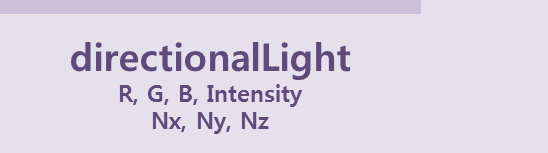
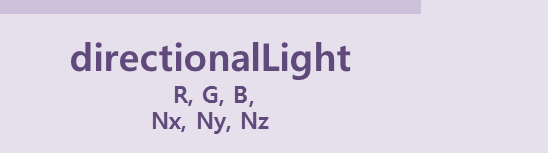
Intensity params changed

Changed region(s): [[0.2172, 0.549, 0.5584, 0.7059]]

diff --git a/static/content/15/practice.html b/static/content/15/practice.html
@@ -1,6 +1,6 @@
 <h4><b>주어진 블록을 이용하여 빛을 조작해 보세요</b></h4>
 <ol>
-    <li>빛의 색을 초록색(0x0000ff)으로 설정하고 intensity를 0.5로 설정</li>
+    <li>빛의 색을 초록색(0x0000ff)으로 설정</li>
     <li>빛의 위치를 (100,300,-500)으로 설정</li>
     <li>빛의 방향을 (-1,-1,1)로 설정</li>
 </ol>

diff --git a/core/service/judgeChpt3Svc.js b/core/service/judgeChpt3Svc.js
@@ -450,7 +450,6 @@ var judgeChpt3 = {
             if (data[i].blockType == jUtils.DIRECTIONALLIGHT) {
 
                 cmpVals.push([data[i].data.hex, dirLight.hex]);
-                cmpVals.push([data[i].data.intensity, dirLight.intensity]);
 
             } else {
 
